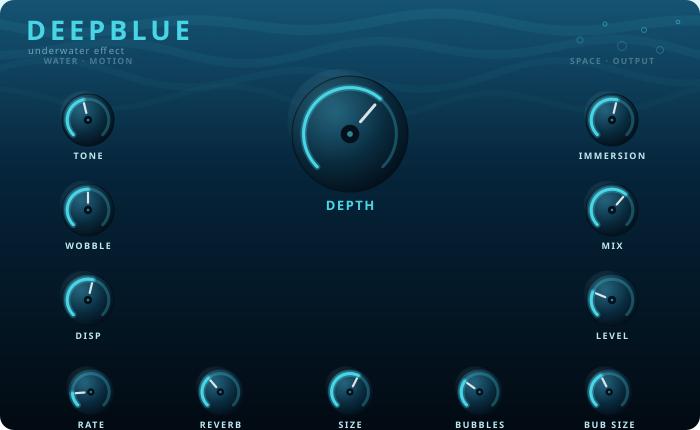
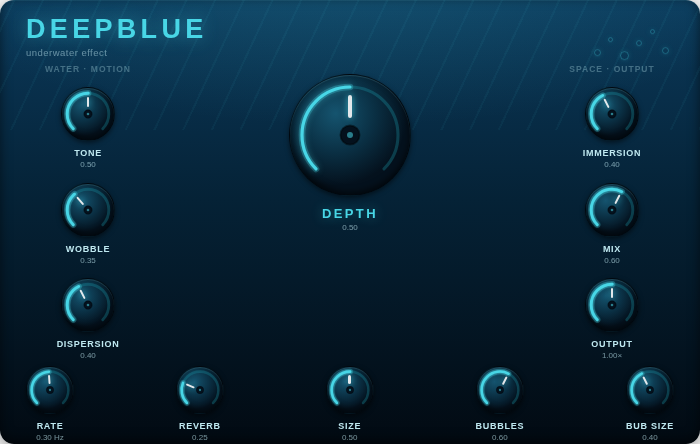
Bring the modgui closer to the JUCE editor
The JUCE editor's signature element — the glowing cyan value arc on
every knob — was missing from the modgui, which only had a rotating
pointer notch. Each knob now carries a non-rotating SVG overlay with
the same 270-degree sweep as the JUCE dials: a dim track, the bright
cyan value arc with its glow, and the hub with the cyan centre dot.
MOD-UI core still drives the dial rotation; script-deepblue.js fills
the arc via stroke-dasharray on pathLength-normalised paths (the
wobble_rate arc fills on a log scale, matching its port).

Along the way:
- Move the glass dial body onto the non-rotating wrapper: MOD-UI
  rotates the dial element itself, which spun the top-left light
  catch along with the value.
- Shorten the pointer to the JUCE proportions (0.28r to 0.66r) so it
  stays inside the value arc.
- Keep the arc fill as a markup attribute, not a CSS declaration —
  CSS would override the script's updates.
- Grow the panel 430 -> 444 px so the bottom-row value readouts are
  no longer clipped, and regenerate screenshot/thumbnail to match.
- modgui.ttl: finish the Level -> Output display rename missed in the
  previous commit.

https://claude.ai/code/session_01HoDhpPgeDxZzb3R4RK2tb5

diff --git a/deepblue.lv2/modgui/icon-deepblue.html b/deepblue.lv2/modgui/icon-deepblue.html
@@ -21,11 +21,20 @@
 
     <!-- ── Central DEPTH macro ─────────────────────────────────────────── -->
     <div class="deepblue-depth">
-        <div class="db-dial db-dial-big"
-             mod-role="input-control-port"
-             mod-port-symbol="depth"
-             mod-widget-rotation="270">
-            <div class="db-pointer"></div>
+        <div class="db-dial-wrap">
+            <div class="db-dial db-dial-big"
+                 mod-role="input-control-port"
+                 mod-port-symbol="depth"
+                 mod-widget-rotation="270">
+                <div class="db-pointer"></div>
+            </div>
+            <svg class="db-arc" viewBox="0 0 100 100" data-arc="depth">
+                <path class="db-arc-track" d="M21.7 78.3 A40 40 0 1 1 78.3 78.3" pathLength="100"/>
+                <path class="db-arc-glow"  d="M21.7 78.3 A40 40 0 1 1 78.3 78.3" pathLength="100" stroke-dasharray="0 100"/>
+                <path class="db-arc-value" d="M21.7 78.3 A40 40 0 1 1 78.3 78.3" pathLength="100" stroke-dasharray="0 100"/>
+                <circle class="db-arc-hub" cx="50" cy="50" r="8"/>
+                <circle class="db-arc-dot" cx="50" cy="50" r="2.5"/>
+            </svg>
         </div>
         <span class="db-label">DEPTH</span>
         <span class="db-value" data-port="depth"></span>
@@ -35,15 +44,42 @@
     <div class="deepblue-col deepblue-col-left">
         <div class="db-section">WATER · MOTION</div>
         <div class="db-knob" title="Tone">
-            <div class="db-dial" mod-role="input-control-port" mod-port-symbol="tone" mod-widget-rotation="270"><div class="db-pointer"></div></div>
+            <div class="db-dial-wrap">
+                <div class="db-dial" mod-role="input-control-port" mod-port-symbol="tone" mod-widget-rotation="270"><div class="db-pointer"></div></div>
+                <svg class="db-arc" viewBox="0 0 100 100" data-arc="tone">
+                    <path class="db-arc-track" d="M21.7 78.3 A40 40 0 1 1 78.3 78.3" pathLength="100"/>
+                    <path class="db-arc-glow"  d="M21.7 78.3 A40 40 0 1 1 78.3 78.3" pathLength="100" stroke-dasharray="0 100"/>
+                    <path class="db-arc-value" d="M21.7 78.3 A40 40 0 1 1 78.3 78.3" pathLength="100" stroke-dasharray="0 100"/>
+                    <circle class="db-arc-hub" cx="50" cy="50" r="8"/>
+                    <circle class="db-arc-dot" cx="50" cy="50" r="2.5"/>
+                </svg>
+            </div>
             <span class="db-label">TONE</span><span class="db-value" data-port="tone"></span>
         </div>
         <div class="db-knob" title="Wobble">
-            <div class="db-dial" mod-role="input-control-port" mod-port-symbol="wobble" mod-widget-rotation="270"><div class="db-pointer"></div></div>
+            <div class="db-dial-wrap">
+                <div class="db-dial" mod-role="input-control-port" mod-port-symbol="wobble" mod-widget-rotation="270"><div class="db-pointer"></div></div>
+                <svg class="db-arc" viewBox="0 0 100 100" data-arc="wobble">
+                    <path class="db-arc-track" d="M21.7 78.3 A40 40 0 1 1 78.3 78.3" pathLength="100"/>
+                    <path class="db-arc-glow"  d="M21.7 78.3 A40 40 0 1 1 78.3 78.3" pathLength="100" stroke-dasharray="0 100"/>
+                    <path class="db-arc-value" d="M21.7 78.3 A40 40 0 1 1 78.3 78.3" pathLength="100" stroke-dasharray="0 100"/>
+                    <circle class="db-arc-hub" cx="50" cy="50" r="8"/>
+                    <circle class="db-arc-dot" cx="50" cy="50" r="2.5"/>
+                </svg>
+            </div>
             <span class="db-label">WOBBLE</span><span class="db-value" data-port="wobble"></span>
         </div>
         <div class="db-knob" title="Dispersion">
-            <div class="db-dial" mod-role="input-control-port" mod-port-symbol="dispersion" mod-widget-rotation="270"><div class="db-pointer"></div></div>
+            <div class="db-dial-wrap">
+                <div class="db-dial" mod-role="input-control-port" mod-port-symbol="dispersion" mod-widget-rotation="270"><div class="db-pointer"></div></div>
+                <svg class="db-arc" viewBox="0 0 100 100" data-arc="dispersion">
+                    <path class="db-arc-track" d="M21.7 78.3 A40 40 0 1 1 78.3 78.3" pathLength="100"/>
+                    <path class="db-arc-glow"  d="M21.7 78.3 A40 40 0 1 1 78.3 78.3" pathLength="100" stroke-dasharray="0 100"/>
+                    <path class="db-arc-value" d="M21.7 78.3 A40 40 0 1 1 78.3 78.3" pathLength="100" stroke-dasharray="0 100"/>
+                    <circle class="db-arc-hub" cx="50" cy="50" r="8"/>
+                    <circle class="db-arc-dot" cx="50" cy="50" r="2.5"/>
+                </svg>
+            </div>
             <span class="db-label">DISPERSION</span><span class="db-value" data-port="dispersion"></span>
         </div>
     </div>
@@ -52,15 +88,42 @@
     <div class="deepblue-col deepblue-col-right">
         <div class="db-section">SPACE · OUTPUT</div>
         <div class="db-knob" title="Immersion">
-            <div class="db-dial" mod-role="input-control-port" mod-port-symbol="immersion" mod-widget-rotation="270"><div class="db-pointer"></div></div>
+            <div class="db-dial-wrap">
+                <div class="db-dial" mod-role="input-control-port" mod-port-symbol="immersion" mod-widget-rotation="270"><div class="db-pointer"></div></div>
+                <svg class="db-arc" viewBox="0 0 100 100" data-arc="immersion">
+                    <path class="db-arc-track" d="M21.7 78.3 A40 40 0 1 1 78.3 78.3" pathLength="100"/>
+                    <path class="db-arc-glow"  d="M21.7 78.3 A40 40 0 1 1 78.3 78.3" pathLength="100" stroke-dasharray="0 100"/>
+                    <path class="db-arc-value" d="M21.7 78.3 A40 40 0 1 1 78.3 78.3" pathLength="100" stroke-dasharray="0 100"/>
+                    <circle class="db-arc-hub" cx="50" cy="50" r="8"/>
+                    <circle class="db-arc-dot" cx="50" cy="50" r="2.5"/>
+                </svg>
+            </div>
             <span class="db-label">IMMERSION</span><span class="db-value" data-port="immersion"></span>
         </div>
         <div class="db-knob" title="Mix">
-            <div class="db-dial" mod-role="input-control-port" mod-port-symbol="mix" mod-widget-rotation="270"><div class="db-pointer"></div></div>
+            <div class="db-dial-wrap">
+                <div class="db-dial" mod-role="input-control-port" mod-port-symbol="mix" mod-widget-rotation="270"><div class="db-pointer"></div></div>
+                <svg class="db-arc" viewBox="0 0 100 100" data-arc="mix">
+                    <path class="db-arc-track" d="M21.7 78.3 A40 40 0 1 1 78.3 78.3" pathLength="100"/>
+                    <path class="db-arc-glow"  d="M21.7 78.3 A40 40 0 1 1 78.3 78.3" pathLength="100" stroke-dasharray="0 100"/>
+                    <path class="db-arc-value" d="M21.7 78.3 A40 40 0 1 1 78.3 78.3" pathLength="100" stroke-dasharray="0 100"/>
+                    <circle class="db-arc-hub" cx="50" cy="50" r="8"/>
+                    <circle class="db-arc-dot" cx="50" cy="50" r="2.5"/>
+                </svg>
+            </div>
             <span class="db-label">MIX</span><span class="db-value" data-port="mix"></span>
         </div>
         <div class="db-knob" title="Output">
-            <div class="db-dial" mod-role="input-control-port" mod-port-symbol="level" mod-widget-rotation="270"><div class="db-pointer"></div></div>
+            <div class="db-dial-wrap">
+                <div class="db-dial" mod-role="input-control-port" mod-port-symbol="level" mod-widget-rotation="270"><div class="db-pointer"></div></div>
+                <svg class="db-arc" viewBox="0 0 100 100" data-arc="level">
+                    <path class="db-arc-track" d="M21.7 78.3 A40 40 0 1 1 78.3 78.3" pathLength="100"/>
+                    <path class="db-arc-glow"  d="M21.7 78.3 A40 40 0 1 1 78.3 78.3" pathLength="100" stroke-dasharray="0 100"/>
+                    <path class="db-arc-value" d="M21.7 78.3 A40 40 0 1 1 78.3 78.3" pathLength="100" stroke-dasharray="0 100"/>
+                    <circle class="db-arc-hub" cx="50" cy="50" r="8"/>
+                    <circle class="db-arc-dot" cx="50" cy="50" r="2.5"/>
+                </svg>
+            </div>
             <span class="db-label">OUTPUT</span><span class="db-value" data-port="level"></span>
         </div>
     </div>
@@ -68,23 +131,68 @@
     <!-- ── Bottom row ──────────────────────────────────────────────────── -->
     <div class="deepblue-row">
         <div class="db-knob" title="Wobble Rate">
-            <div class="db-dial" mod-role="input-control-port" mod-port-symbol="wobble_rate" mod-widget-rotation="270"><div class="db-pointer"></div></div>
+            <div class="db-dial-wrap">
+                <div class="db-dial" mod-role="input-control-port" mod-port-symbol="wobble_rate" mod-widget-rotation="270"><div class="db-pointer"></div></div>
+                <svg class="db-arc" viewBox="0 0 100 100" data-arc="wobble_rate">
+                    <path class="db-arc-track" d="M21.7 78.3 A40 40 0 1 1 78.3 78.3" pathLength="100"/>
+                    <path class="db-arc-glow"  d="M21.7 78.3 A40 40 0 1 1 78.3 78.3" pathLength="100" stroke-dasharray="0 100"/>
+                    <path class="db-arc-value" d="M21.7 78.3 A40 40 0 1 1 78.3 78.3" pathLength="100" stroke-dasharray="0 100"/>
+                    <circle class="db-arc-hub" cx="50" cy="50" r="8"/>
+                    <circle class="db-arc-dot" cx="50" cy="50" r="2.5"/>
+                </svg>
+            </div>
             <span class="db-label">RATE</span><span class="db-value" data-port="wobble_rate"></span>
         </div>
         <div class="db-knob" title="Reverb">
-            <div class="db-dial" mod-role="input-control-port" mod-port-symbol="reverb" mod-widget-rotation="270"><div class="db-pointer"></div></div>
+            <div class="db-dial-wrap">
+                <div class="db-dial" mod-role="input-control-port" mod-port-symbol="reverb" mod-widget-rotation="270"><div class="db-pointer"></div></div>
+                <svg class="db-arc" viewBox="0 0 100 100" data-arc="reverb">
+                    <path class="db-arc-track" d="M21.7 78.3 A40 40 0 1 1 78.3 78.3" pathLength="100"/>
+                    <path class="db-arc-glow"  d="M21.7 78.3 A40 40 0 1 1 78.3 78.3" pathLength="100" stroke-dasharray="0 100"/>
+                    <path class="db-arc-value" d="M21.7 78.3 A40 40 0 1 1 78.3 78.3" pathLength="100" stroke-dasharray="0 100"/>
+                    <circle class="db-arc-hub" cx="50" cy="50" r="8"/>
+                    <circle class="db-arc-dot" cx="50" cy="50" r="2.5"/>
+                </svg>
+            </div>
             <span class="db-label">REVERB</span><span class="db-value" data-port="reverb"></span>
         </div>
         <div class="db-knob" title="Reverb Size">
-            <div class="db-dial" mod-role="input-control-port" mod-port-symbol="reverb_size" mod-widget-rotation="270"><div class="db-pointer"></div></div>
+            <div class="db-dial-wrap">
+                <div class="db-dial" mod-role="input-control-port" mod-port-symbol="reverb_size" mod-widget-rotation="270"><div class="db-pointer"></div></div>
+                <svg class="db-arc" viewBox="0 0 100 100" data-arc="reverb_size">
+                    <path class="db-arc-track" d="M21.7 78.3 A40 40 0 1 1 78.3 78.3" pathLength="100"/>
+                    <path class="db-arc-glow"  d="M21.7 78.3 A40 40 0 1 1 78.3 78.3" pathLength="100" stroke-dasharray="0 100"/>
+                    <path class="db-arc-value" d="M21.7 78.3 A40 40 0 1 1 78.3 78.3" pathLength="100" stroke-dasharray="0 100"/>
+                    <circle class="db-arc-hub" cx="50" cy="50" r="8"/>
+                    <circle class="db-arc-dot" cx="50" cy="50" r="2.5"/>
+                </svg>
+            </div>
             <span class="db-label">SIZE</span><span class="db-value" data-port="reverb_size"></span>
         </div>
         <div class="db-knob" title="Bubbles">
-            <div class="db-dial" mod-role="input-control-port" mod-port-symbol="bubbles" mod-widget-rotation="270"><div class="db-pointer"></div></div>
+            <div class="db-dial-wrap">
+                <div class="db-dial" mod-role="input-control-port" mod-port-symbol="bubbles" mod-widget-rotation="270"><div class="db-pointer"></div></div>
+                <svg class="db-arc" viewBox="0 0 100 100" data-arc="bubbles">
+                    <path class="db-arc-track" d="M21.7 78.3 A40 40 0 1 1 78.3 78.3" pathLength="100"/>
+                    <path class="db-arc-glow"  d="M21.7 78.3 A40 40 0 1 1 78.3 78.3" pathLength="100" stroke-dasharray="0 100"/>
+                    <path class="db-arc-value" d="M21.7 78.3 A40 40 0 1 1 78.3 78.3" pathLength="100" stroke-dasharray="0 100"/>
+                    <circle class="db-arc-hub" cx="50" cy="50" r="8"/>
+                    <circle class="db-arc-dot" cx="50" cy="50" r="2.5"/>
+                </svg>
+            </div>
             <span class="db-label">BUBBLES</span><span class="db-value" data-port="bubbles"></span>
         </div>
         <div class="db-knob" title="Bubble Size">
-            <div class="db-dial" mod-role="input-control-port" mod-port-symbol="bubble_size" mod-widget-rotation="270"><div class="db-pointer"></div></div>
+            <div class="db-dial-wrap">
+                <div class="db-dial" mod-role="input-control-port" mod-port-symbol="bubble_size" mod-widget-rotation="270"><div class="db-pointer"></div></div>
+                <svg class="db-arc" viewBox="0 0 100 100" data-arc="bubble_size">
+                    <path class="db-arc-track" d="M21.7 78.3 A40 40 0 1 1 78.3 78.3" pathLength="100"/>
+                    <path class="db-arc-glow"  d="M21.7 78.3 A40 40 0 1 1 78.3 78.3" pathLength="100" stroke-dasharray="0 100"/>
+                    <path class="db-arc-value" d="M21.7 78.3 A40 40 0 1 1 78.3 78.3" pathLength="100" stroke-dasharray="0 100"/>
+                    <circle class="db-arc-hub" cx="50" cy="50" r="8"/>
+                    <circle class="db-arc-dot" cx="50" cy="50" r="2.5"/>
+                </svg>
+            </div>
             <span class="db-label">BUB SIZE</span><span class="db-value" data-port="bubble_size"></span>
         </div>
     </div>

diff --git a/deepblue.lv2/modgui/stylesheet-deepblue.css b/deepblue.lv2/modgui/stylesheet-deepblue.css
@@ -19,7 +19,7 @@
         0 4px 20px rgba(0,0,0,0.5);
     color: #bfe8f0;
     font-family: "Nexa", "Questrial", sans-serif;
-    height: 430px;
+    height: 444px;
     position: absolute;
     width: 700px;
     overflow: hidden;
@@ -117,9 +117,10 @@
     flex-direction: column;
     z-index: 30;
 }
-.deepblue-panel{{{cns}}} .db-dial {
+/* The glass body lives on the non-rotating wrap: MOD-UI rotates .db-dial
+   itself, which would spin the top-left light catch with the value. */
+.deepblue-panel{{{cns}}} .db-dial-wrap {
     position: relative;
-    width: 52px; height: 52px;
     border-radius: 50%;
     background:
         radial-gradient(60% 60% at 38% 32%, #15546f 0%, #0a2f43 55%, #04111d 100%);
@@ -128,19 +129,68 @@
         inset 0 -3px 6px rgba(0,0,0,0.6),
         0 2px 5px rgba(0,0,0,0.5);
     border: 1px solid rgba(0,0,0,0.5);
+}
+.deepblue-panel{{{cns}}} .db-dial {
+    position: relative;
+    width: 52px; height: 52px;
+    border-radius: 50%;
     cursor: pointer;
 }
 .deepblue-panel{{{cns}}} .db-dial-big { width: 120px; height: 120px; }
 
-/* Pointer notch (rotates with the dial). */
+/* Glowing cyan value arc — same 270° sweep as the JUCE editor (7:30 → 4:30).
+   The dial below rotates (MOD-UI drives it); this overlay does not, the
+   script fills the arc via stroke-dasharray on the pathLength=100 paths. */
+.deepblue-panel{{{cns}}} .db-arc {
+    position: absolute;
+    left: 0; top: 0;
+    width: 100%; height: 100%;
+    overflow: visible;
+    pointer-events: none;
+}
+/* Stroke widths are viewBox units (viewBox is 100×100, so they scale with
+   the knob); no vector-effect here — non-scaling-stroke would make the
+   stroke-dasharray ignore pathLength and break the value fill. */
+.deepblue-panel{{{cns}}} .db-arc path {
+    fill: none;
+    stroke-linecap: round;
+}
+.deepblue-panel{{{cns}}} .db-arc-track {
+    stroke: rgba(27,143,160,0.35);
+    stroke-width: 5.5;
+}
+/* The fill (stroke-dasharray) lives on the markup attribute and is updated
+   by script-deepblue.js — a CSS declaration here would override it. */
+.deepblue-panel{{{cns}}} .db-arc-glow {
+    stroke: rgba(72,214,230,0.28);
+    stroke-width: 12;
+}
+.deepblue-panel{{{cns}}} .db-arc-value {
+    stroke: #48d6e6;
+    stroke-width: 5.5;
+    filter: drop-shadow(0 0 3px rgba(72,214,230,0.65));
+}
+/* The big DEPTH dial scales the viewBox ×2.3 — thin the strokes back down. */
+.deepblue-panel{{{cns}}} .deepblue-depth .db-arc-track,
+.deepblue-panel{{{cns}}} .deepblue-depth .db-arc-value { stroke-width: 2.6; }
+.deepblue-panel{{{cns}}} .deepblue-depth .db-arc-glow  { stroke-width: 5.5; }
+.deepblue-panel{{{cns}}} .db-arc-hub {
+    fill: #04111d;
+    stroke: rgba(0,0,0,0.45);
+    stroke-width: 1.5;
+}
+.deepblue-panel{{{cns}}} .db-arc-dot { fill: rgba(72,214,230,0.55); }
+
+/* Pointer notch (rotates with the dial) — from 0.28r to 0.66r like the JUCE
+   pointer, so it stays inside the value arc. */
 .deepblue-panel{{{cns}}} .db-pointer {
     position: absolute;
-    left: 50%; top: 8%;
-    width: 2.5px; height: 30%;
+    left: 50%; top: 17%;
+    width: 2.5px; height: 19%;
     margin-left: -1.25px;
     border-radius: 2px;
-    background: #ffffff;
-    box-shadow: 0 0 7px rgba(72,214,230,0.9);
+    background: rgba(255,255,255,0.88);
+    box-shadow: 0 0 6px rgba(72,214,230,0.8);
 }
 .deepblue-panel{{{cns}}} .db-dial-big .db-pointer { width: 3.5px; margin-left: -1.75px; }
 

diff --git a/deepblue.lv2/modgui/script-deepblue.js b/deepblue.lv2/modgui/script-deepblue.js
@@ -1,15 +1,31 @@
 /* ============================================================
-   DEEPBLUE modgui — value readouts
+   DEEPBLUE modgui — value readouts + glowing value arcs
    --------------------------------------------------------------
    The knobs themselves are driven by MOD-UI core (mod-role +
-   mod-widget-rotation in the icon template). This script only
-   keeps the small numeric readout under each knob in sync, on
-   the initial 'start' and on every 'change'.
+   mod-widget-rotation in the icon template). This script keeps
+   the numeric readout under each knob in sync AND fills the
+   cyan value arc (the SVG overlay, stroke-dasharray on
+   pathLength=100 paths), on the initial 'start' and on every
+   'change' — mirroring the JUCE editor's look.
    ============================================================ */
 
 function (event, funcs) {
 
     var icon = event.icon
+
+    /* Port ranges (all others are 0–1). wobble_rate is logarithmic
+       in the .ttl, so its arc fills on a log scale like the knob. */
+    var RANGES = {
+        wobble_rate: { min: 0.05, max: 2.0, log: true },
+        level:       { min: 0.0,  max: 2.0 }
+    }
+
+    function norm(symbol, value) {
+        var r = RANGES[symbol] || { min: 0.0, max: 1.0 }
+        var v = r.log ? Math.log(value / r.min) / Math.log(r.max / r.min)
+                      : (value - r.min) / (r.max - r.min)
+        return Math.max(0, Math.min(1, v))
+    }
 
     function format(symbol, value) {
         if (symbol === 'wobble_rate') return Number(value).toFixed(2) + ' Hz'
@@ -20,6 +36,12 @@ function (event, funcs) {
     function setValue(symbol, value) {
         var els = icon.find('.db-value[data-port="' + symbol + '"]')
         if (els.length) els.text(format(symbol, value))
+
+        var arc = icon.find('.db-arc[data-arc="' + symbol + '"]')
+        if (arc.length) {
+            var dash = (norm(symbol, value) * 100).toFixed(2) + ' 100'
+            arc.find('.db-arc-value, .db-arc-glow').attr('stroke-dasharray', dash)
+        }
     }
 
     if (event.type === 'start') {